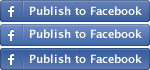
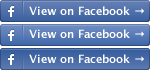
Add publish page and view page button.Escaped script tag

Changed region(s): [[0.1867, 0.7714, 0.96, 0.9143], [0.1867, 0.0857, 0.96, 0.2286], [0.1867, 0.4, 0.96, 0.5429]]

diff --git a/templates/app/edit.html b/templates/app/edit.html
@@ -47,7 +47,11 @@
 
     <div id="sb-widgets-menu" class="widget box_round_6">
         <div id="sb-widgets-header">
-            <a id="facebook-publish" href="#fbox-install" rel="facebox" class="hand"></a>
+            {% if page.has_added_app == "True" %}
+            <a id="facebook-view" href="http://www.facebook.com/{{page.id}}" class="hand"></a>
+            {% else %}
+            <a id="facebook-publish" href="http://www.facebook.com/add.php?api_key={{facebook.api_key}}&pages=1&page={{page.id}}" class="hand"></a>
+            {% endif %}
     	</div>
     	<div id="controller-tabs">
         	<ul>

diff --git a/templates/app/fb-tab.html b/templates/app/fb-tab.html
@@ -30,7 +30,7 @@
                 	<h3><a href="#">{{w.name}}</a></h3>
                 	<div id="{{w.id}}" class="widget-list-item {{w.type}}">
             	            {% ifequal w.type "text" %}
-                                {{w.text__text|safe}}
+                                {{w.text__text|removetags:"script"|safe}}
                 	        {% endifequal %}
                 	        {% ifequal w.type "twitter" %}      
 								<script>

diff --git a/static/css/app-style.css b/static/css/app-style.css
@@ -455,6 +455,13 @@ z-index:999;}
     width: 150px;
     display:block;
 }
+#facebook-view{
+    background:transparent url(/static/images/facebook_view.png) no-repeat 0 0;
+    height: 22px;
+    margin: 7px auto;
+    width: 150px;
+    display:block;
+}
 
 /* jqury ui */
 .ui-dialog{background:#fff !important;border:10px solid #76756C !important;}

diff --git a/handlers.py b/handlers.py
@@ -456,9 +456,6 @@ class fbTabHandler(BaseHandler):
         except:
             page=None
             widgets=None
-        logging.info(self.request)
-        logging.info(page)
-        logging.info(widgets)
         self.render("app/fb-tab.html", page=page,widgets=widgets, method="post")
          
 class WallHandler(BaseHandler):
